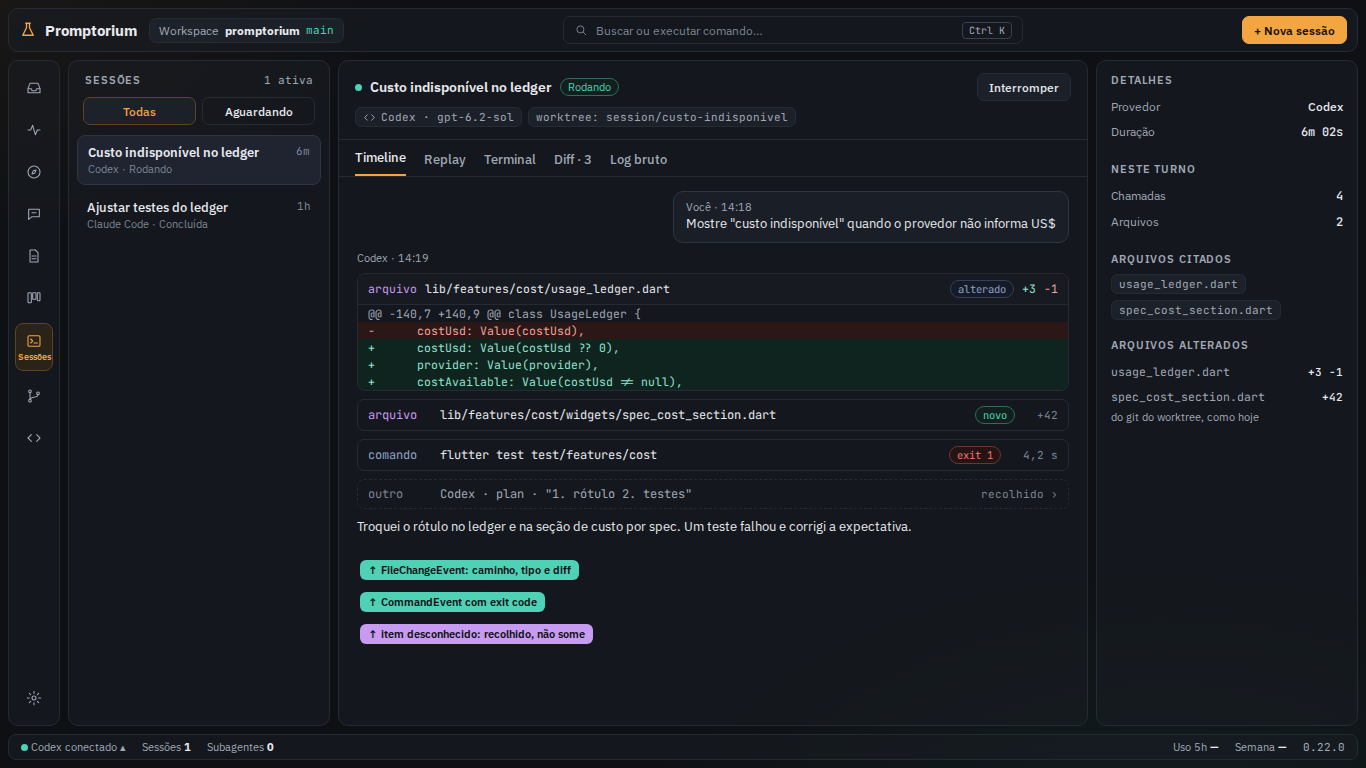
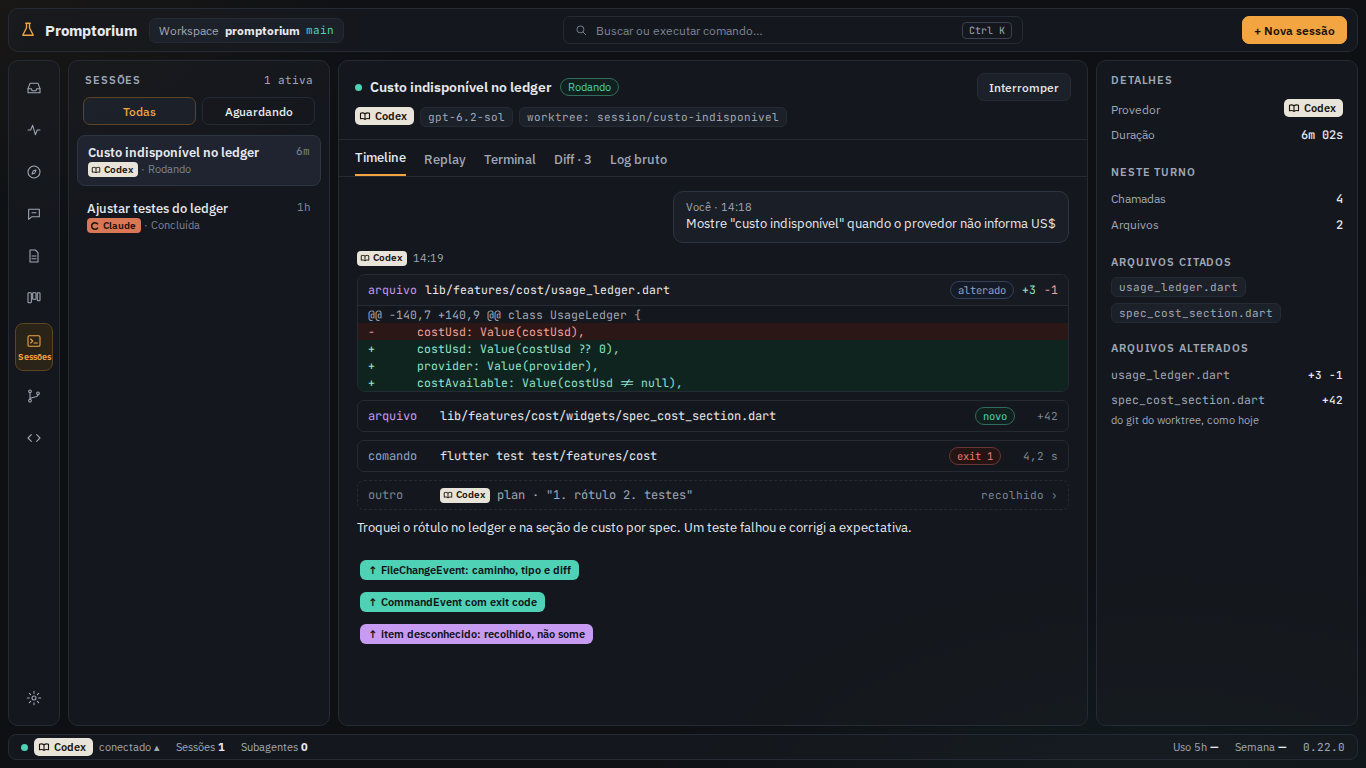
docs(spec): SPEC-095 cores de provedor

diff --git a/docs/specs/SPEC-095-eventos-neutros.md b/docs/specs/SPEC-095-eventos-neutros.md
@@ -126,3 +126,5 @@ Canvas: [SPEC-095 · Eventos neutros](https://claude.ai/artifact/BFMnuiE8SRRALoL
 | `docs/mockups/spec-095/1-timeline-neutra.png` | A mesma sessão com os tipos neutros: cartão de arquivo com caminho, tipo e diff, cartão de comando com código de saída, item desconhecido recolhido, arquivos citados e arquivos do turno preenchidos | R1, R2, R6, R9 |
 | `docs/mockups/spec-095/2-replay-e-contexto.png` | Replay de um passo do Codex com o "antes" reconstruído pelo diff e o medidor de contexto vindo do `tokenUsage` com a janela do modelo e a marca de compactação | R3, R4, R9, R12 |
 | `docs/mockups/spec-095/3-fluxo.png` | Diagrama: Claude e Codex → tipos neutros → consumidores | R1–R9 |
+
+Os mocks mostram o provedor com o chip ou a marca de identidade da SPEC-094 (R14: Claude = argila `#D97757`, Codex = porcelana `#E8E4DA`, sempre com nome ou glifo, nunca como estado).
